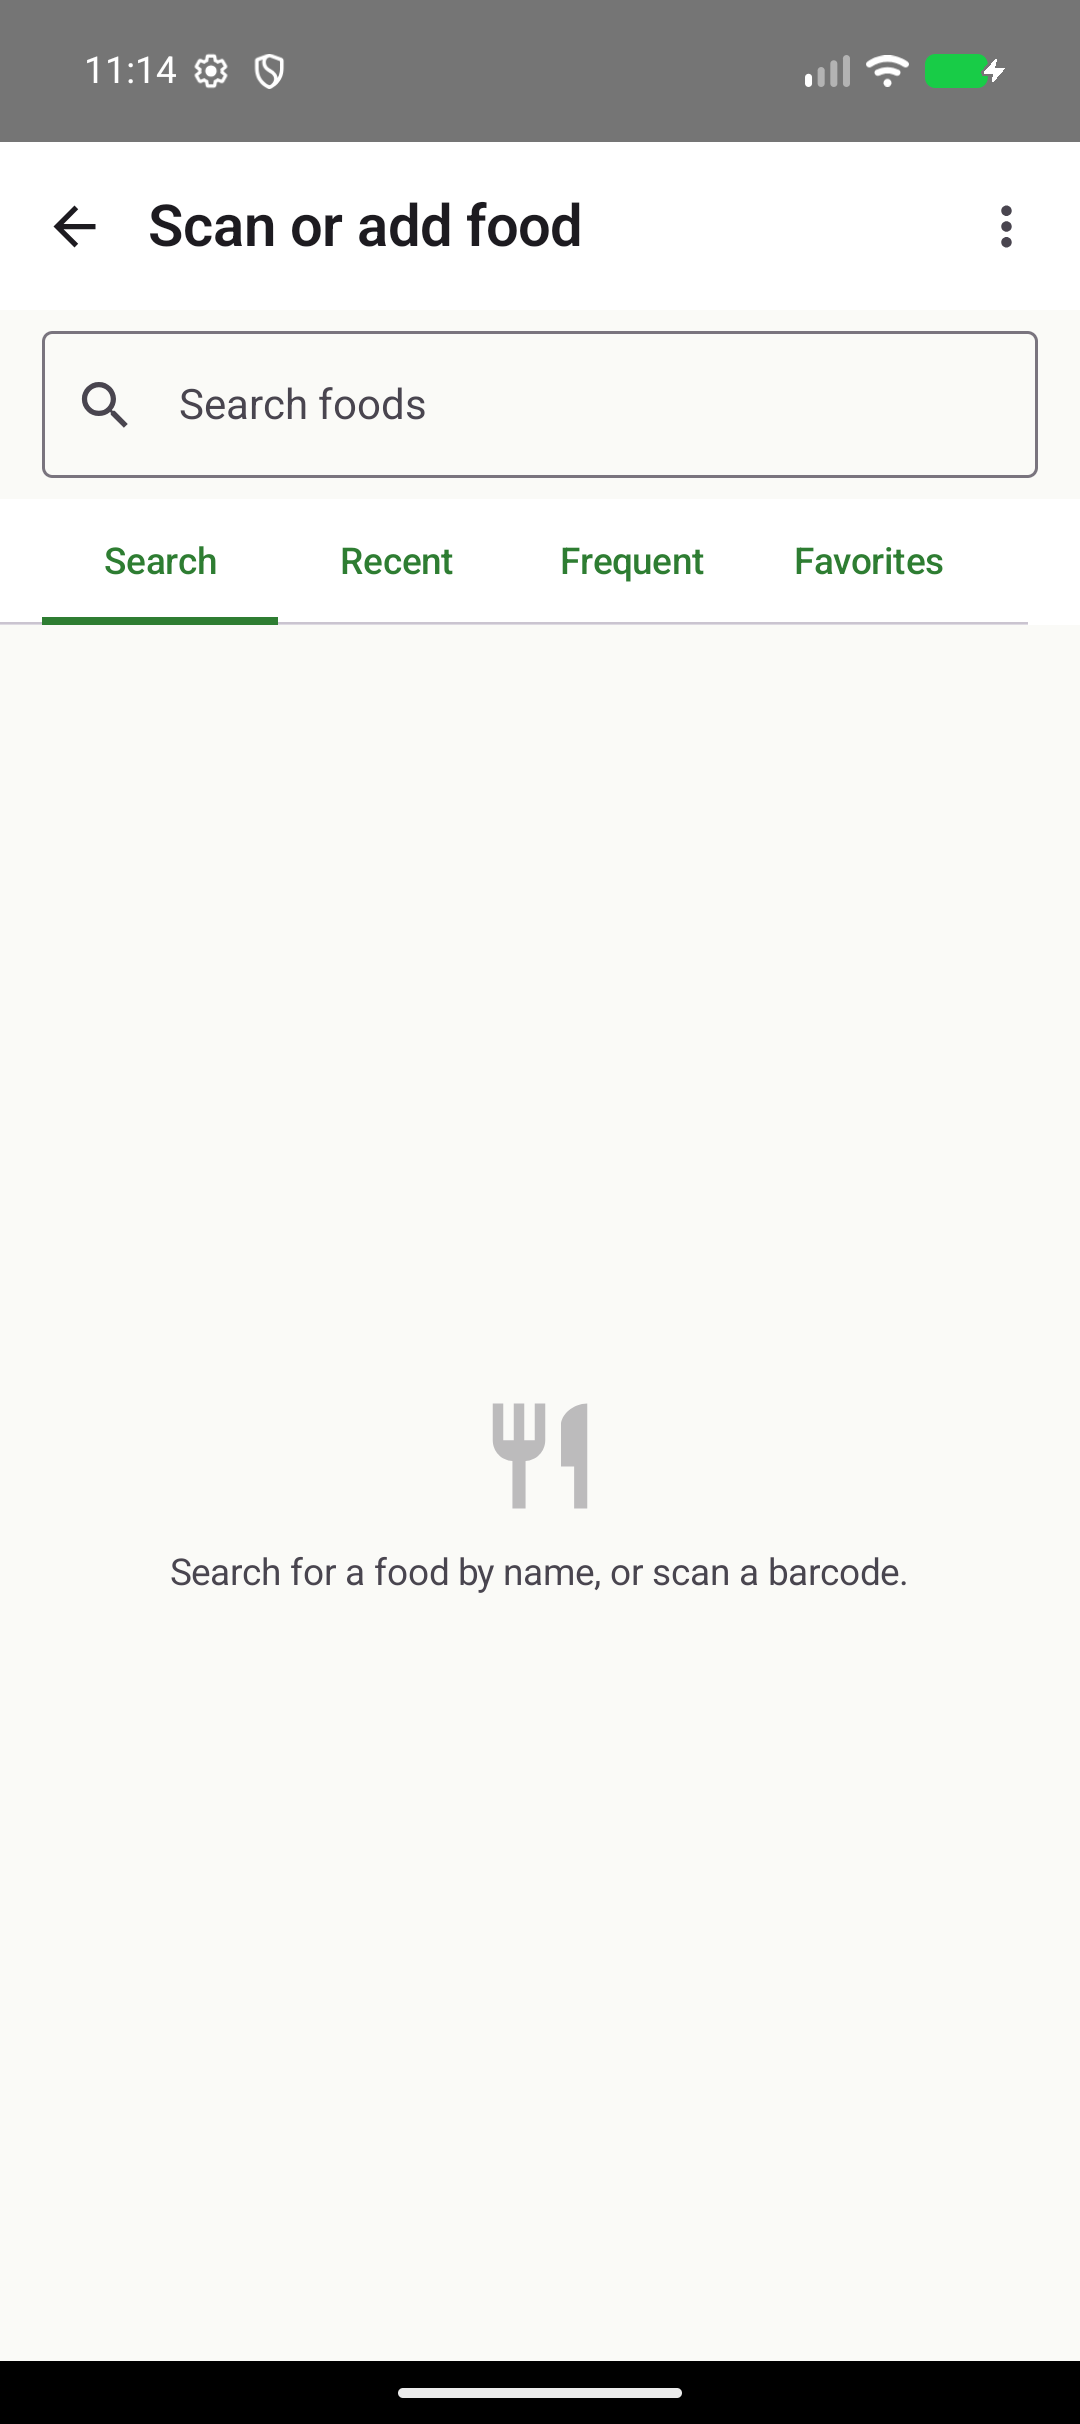
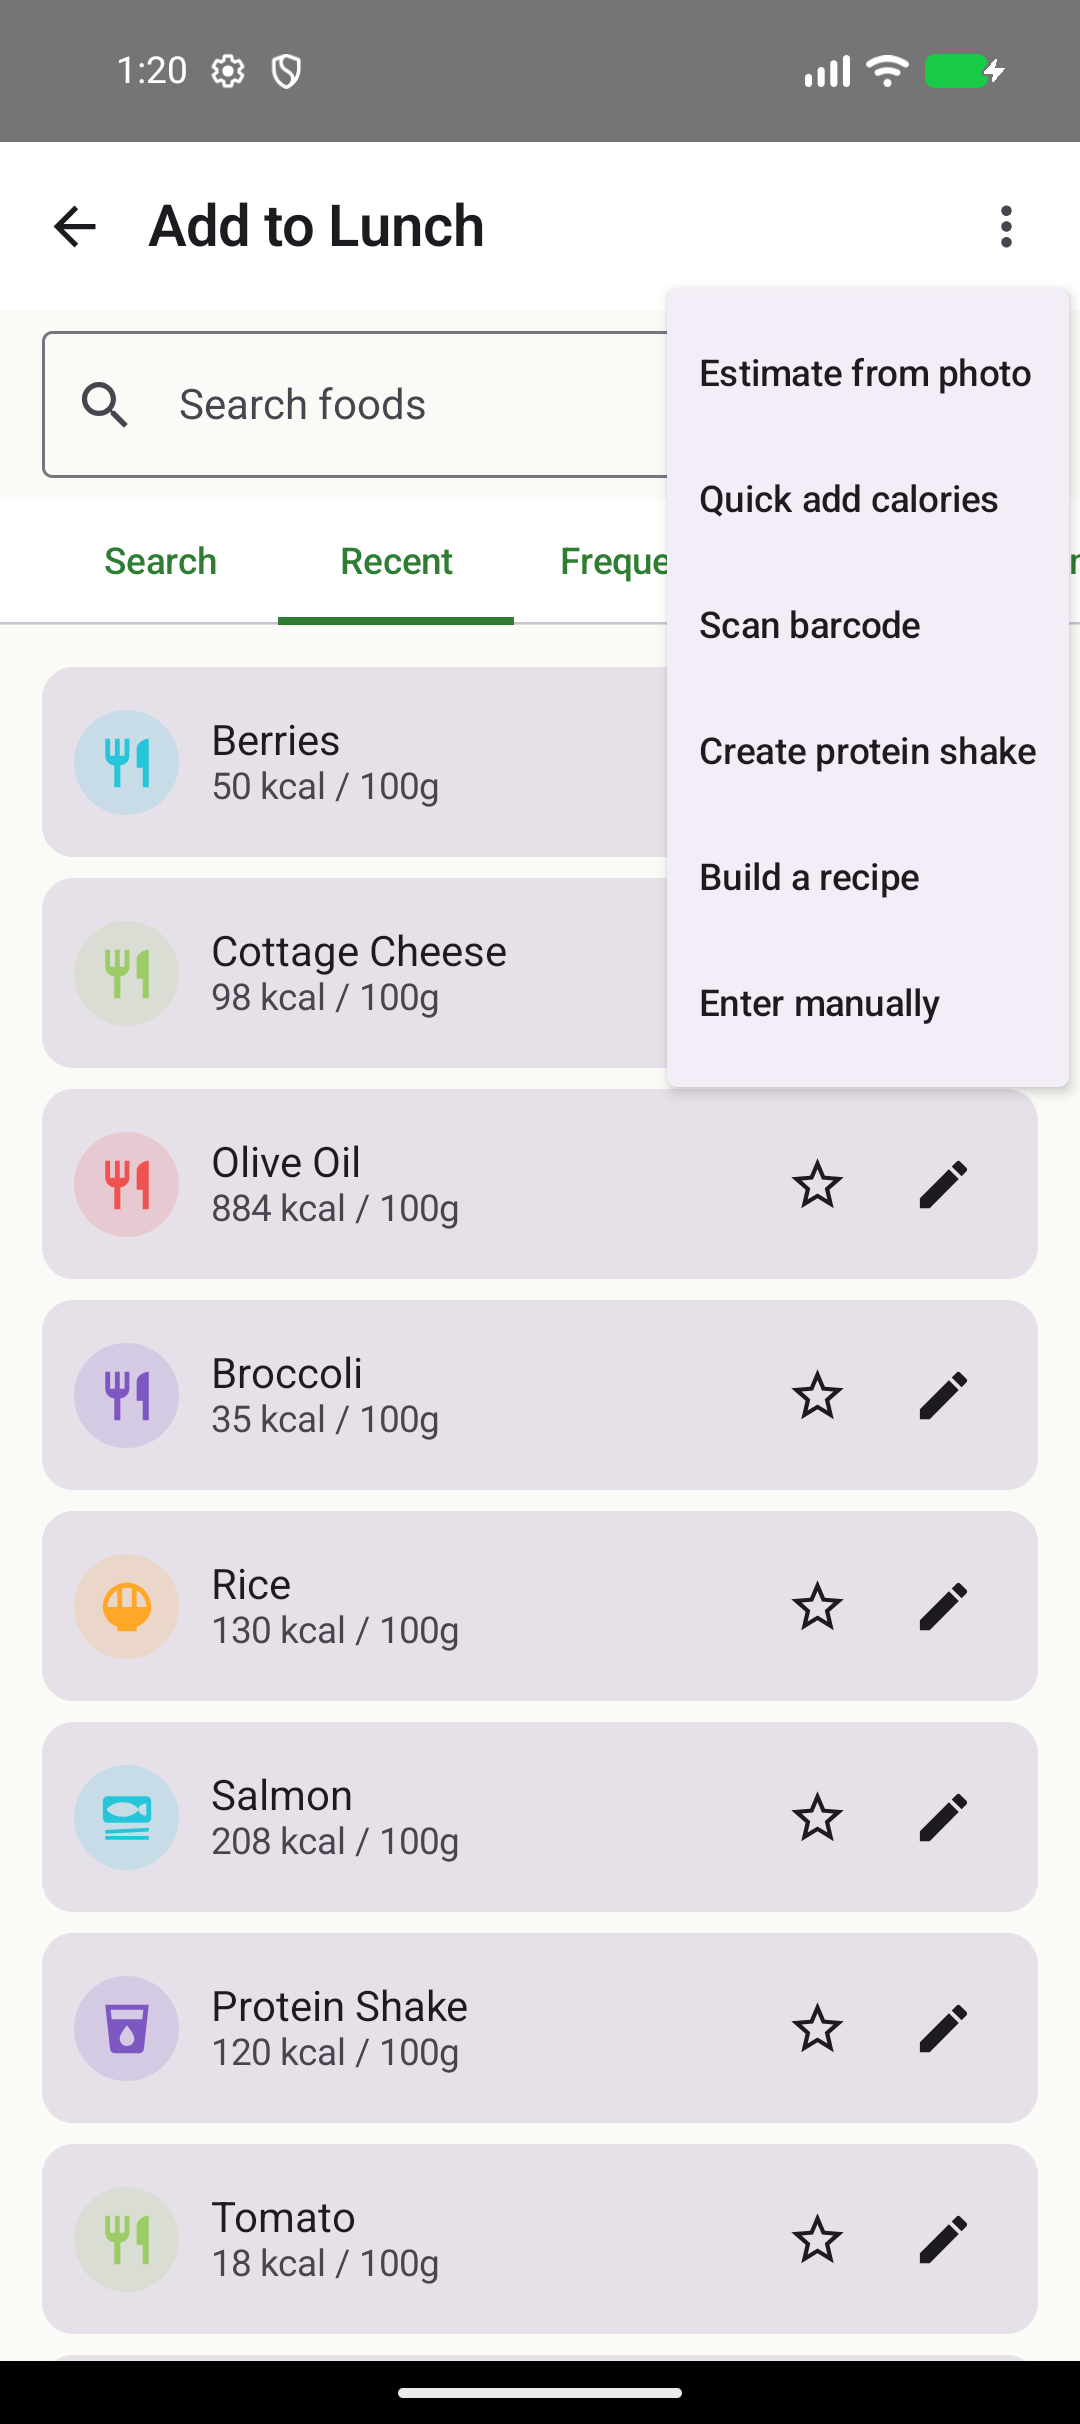
Expand README with populated screenshots

diff --git a/README.md b/README.md
@@ -1,96 +1,181 @@
 # Forklift
 
-An Android app for tracking calories/macros and lifting sessions together, with
-visual thresholds for protein/fat, muscle-coverage exercise suggestions, and a
-weight-vs-intake correlation view.
+Forklift is a local-first Android app that brings nutrition, hydration, activity,
+lifting, and body-weight trends into one place. It combines detailed daily logging
+with practical feedback: macro ranges instead of single-number targets,
+muscle-coverage suggestions, protein-spacing reminders, and an estimate of actual
+maintenance calories from weight and intake history.
 
 ## Features
 
-- **Barcode scanning** (CameraX + ML Kit) looked up against the free
-  [Open Food Facts](https://openfoodfacts.org) database — no API key required.
-- **Recent / frequent / favorite foods** remembered locally so repeat logging is
-  one tap, plus manual entry and text search (local + online).
-- **Grams or servings** quantity entry, per food item.
-- **Meals**: built-in and user-managed meal slots, with a shared consumed-at time for each meal/day.
-- **Protein spacing reminders**: configurable protein dose/gap and waking window, anchored to
-  actual meal times.
-- **Hydration tracking**: plain water plus estimated hydration from logged foods and drinks.
-- **Macro thresholds**: protein defaults to a 1.6-2.4 g/kg body-weight range; fat has
-  a configurable safe floor/ceiling; carbs fill
-  whatever calorie budget is left. The dashboard color-codes each macro
-  (red = below threshold, amber = approaching, green = on target, blue = over).
-- **Lifting tracker**: sessions → exercises → sets (weight × reps), with an
-  exercise library tagged down to the sub-muscle level (e.g. biceps long vs.
-  short head, all three triceps heads, upper/mid/lower chest). A weekly
-  coverage report flags undertrained sub-groups and suggests specific
-  exercises to fill the gap.
-- **Weight tracking** with a daily reminder notification (WorkManager) and a
-  trend view that estimates your *actual* maintenance calories from logged
-  weight + intake, comparing it to your calorie target and suggesting
-  adjustments.
+### Daily nutrition dashboard
 
-## Screenshots
+- Browse previous days or open the date picker to review and correct historical logs.
+- See calories consumed, remaining, or over target in a daily progress ring.
+- Track protein, fat, and carbohydrates against personalized minimum and maximum
+  ranges; tap any macro for a ranked per-food contribution breakdown.
+- Review fiber, sugar, saturated fat, sodium, potassium, calcium, iron, vitamins C,
+  D, and B12, magnesium, and zinc against adult reference values.
+- Open 7-, 14-, or 30-day views for calorie and macro averages, protein history,
+  water intake, and logging completeness.
 
-The screenshots below show the populated dashboard, shared meal-time workflow,
-food logging, and profile/reminder controls on a Pixel emulator.
+### Flexible food logging
 
-| Dashboard | Shared meal time | Food logging | Profile and reminders |
-| --- | --- | --- | --- |
-| ![Forklift dashboard](https://raw.githubusercontent.com/AA-2020743/Forklift/main/docs/images/dashboard.png?v=a221ffa) | ![Shared meal time control](https://raw.githubusercontent.com/AA-2020743/Forklift/main/docs/images/meal-time.png?v=a221ffa) | ![Food logging screen](https://raw.githubusercontent.com/AA-2020743/Forklift/main/docs/images/add-food.png?v=a221ffa) | ![Profile and reminder settings](https://raw.githubusercontent.com/AA-2020743/Forklift/main/docs/images/profile.png?v=a221ffa) |
+- Search the on-device food library or explicitly query the crowd-sourced
+  [Open Food Facts](https://openfoodfacts.org) catalog.
+- Scan UPC/EAN barcodes with CameraX and ML Kit; cached products are reused before
+  another network lookup.
+- Browse recent, frequent, and favorite foods for fast repeat logging.
+- Enter quantities in grams or servings with a live calorie and macro preview, then
+  edit the amount or remove the entry later.
+- Add foods manually with optional serving details, water percentage, and 12
+  micronutrient fields. Recognized whole foods can start with editable reference
+  estimates.
+- Quick-add known calories and optional macros for restaurant meals or rough entries.
+- Build reusable protein shakes from powder and liquid ingredients, or recipes from
+  multiple saved foods with live batch and per-100 g totals.
+- Optionally estimate a meal from a camera or gallery photo through Gemini, then
+  review, edit, remove, and batch-log the detected foods before saving.
+
+### Meals, templates, and timing
+
+- Start with Breakfast, Pre-workout, Lunch, Post-workout, Dinner, and Snack; add
+  custom meal slots, choose their typical times, archive them, or restore them.
+- Keep one shared consumed-at time for every food in a meal/day and correct it from
+  the meal screen when needed.
+- Copy the previous day's equivalent meal into an empty slot.
+- Save a logged meal as a named template and apply all of its foods and quantities
+  to another meal in one action.
+- Configure protein-spacing nudges using a qualifying dose, maximum gap, and
+  wake/sleep window. Meal times provide context for the reminder.
+
+### Hydration and activity
+
+- Calculate a hydration target from body weight and activity level.
+- Quick-log plain water in 250 ml, 500 ml, or 1 L increments and correct past days.
+- See plain water separately from estimated hydration contributed by logged food and
+  drinks.
+- Log walking, running, hiking, cycling, swimming, boxing, sports, yoga, HIIT, or a
+  custom activity with duration, optional steps, and estimated or manual calories.
+- Include completed lifting sessions in the day's activity summary with duration and
+  estimated energy use.
+
+### Lifting and workout analysis
+
+- Start a blank session or use a reusable workout template.
+- Search and filter a seeded library of 57 exercises across 11 muscle groups, with
+  fine-grained targets such as chest regions, deltoid heads, biceps/triceps heads,
+  calves, core, and back regions.
+- Record weight x reps sets, duplicate or delete sets, and compare against the most
+  recent sets for the same exercise.
+- Run 60-, 90-, or 120-second rest timers with add-time, skip, and vibration controls.
+- Browse completed sessions and per-exercise history, including a heaviest-weight
+  chart.
+- Get conservative 14-day coverage suggestions for undertrained sub-muscles, with
+  candidate exercises that can fill each gap.
+
+### Weight, measurements, and feedback
+
+- Log one weigh-in per day and edit or remove entries from the 28-day history.
+- Compare raw scale readings with an exponentially smoothed trend and typical daily
+  water-weight noise.
+- View calorie intake beside weekly weight change and estimate actual maintenance
+  calories from available food and weight logs.
+- Receive goal-aware guidance and optionally apply the suggested 200 kcal/day target
+  adjustment.
+- Record waist, chest, arms, thighs, hips, and neck measurements and keep the latest
+  summary alongside weight history.
+
+### Personal targets, reminders, and privacy
+
+- Configure weight, height, age, sex, activity level, and goals for loss,
+  maintenance, gain, or recomposition.
+- Preview targets instantly using Mifflin-St Jeor BMR, activity-adjusted TDEE,
+  goal-based calories, editable protein/fat ranges, and residual carbohydrates.
+- Override the calculated calorie target when following a separate plan.
+- Schedule a daily weight reminder that stays quiet after a weigh-in, plus
+  protein-spacing nudges that pause during the configured sleep window.
+- Store the optional Gemini key with Android Keystore-backed encrypted preferences.
+- Keep core profile, food, meal, hydration, workout, weight, and measurement data in
+  Room so normal tracking remains available offline. No Forklift account is needed.
+- Follow the device's light or dark theme automatically.
 
 ## Architecture
 
-Single-module Kotlin app, Jetpack Compose UI, no DI framework (a small
-hand-rolled `AppContainer`, see `di/`) — appropriate for a project this size.
+Forklift is a single-module Kotlin app with Jetpack Compose UI and a small,
+hand-written `AppContainer` instead of a DI framework.
 
-```
-data/local/      Room entities, DAOs, database
-data/remote/     Open Food Facts Retrofit API + DTOs
-data/repository/ Repositories mediating local DB + network
-data/seed/       Starter exercise library
-domain/          Pure Kotlin logic: nutrition targets, macro thresholds,
-                 muscle-coverage analysis, weight/calorie correlation
-scanner/         CameraX + ML Kit barcode scanning
-reminder/        WorkManager daily weight reminder + notifications
+```text
+data/local/      Room entities, DAOs, database, and migrations
+data/remote/     Open Food Facts and Gemini Retrofit APIs
+data/repository/ Repositories mediating local storage and network access
+data/seed/       Starter meal slots and exercise library
+domain/          Nutrition, hydration, coverage, and trend calculations
+scanner/         CameraX and ML Kit barcode scanning
+reminder/        WorkManager weight and protein notifications
 di/              Manual dependency container
-ui/              Compose screens + ViewModels, one package per feature area
+ui/              Compose screens and ViewModels grouped by feature
 ```
 
-Everything is local-first (Room + DataStore-free — settings live in a
-singleton Room row); network calls are barcode/name lookups against Open Food Facts
-and optional photo estimation through the user's Gemini API key.
+Network access is limited to Open Food Facts searches/barcode lookups and optional
+Gemini photo analysis. Online foods selected by the user are cached locally for
+later reuse. Room migrations preserve supported on-device data across upgrades.
 
 ## Building
 
-Requires Android Studio (or a `gradlew` invocation) with normal internet
-access to Google's Maven (`dl.google.com`) and Maven Central, JDK 17, and an
-Android SDK with API 34 installed.
+Requirements:
 
-```
+- JDK 17.
+- Android Studio or the Gradle wrapper.
+- Android SDK 34.
+- Internet access to Google's Maven and Maven Central for dependency resolution.
+
+```bash
 ./gradlew assembleDebug
 ```
 
-The current workspace is verified with `compileDebugKotlin`, `lintDebug`, and
-the JVM unit-test task. Run `assembleDebug` before distributing a release APK.
+Key versions are pinned in `gradle/libs.versions.toml`:
 
-### Key versions pinned in `gradle/libs.versions.toml`
-
-- Kotlin 2.0.20, AGP 8.4.2, Compose BOM 2024.09.02
-- Room 2.6.1, Navigation Compose 2.7.7, WorkManager 2.9.0
-- CameraX 1.3.4, ML Kit barcode-scanning 17.3.0
-- Retrofit 2.11.0 + kotlinx.serialization
+- Kotlin 2.0.20, Android Gradle Plugin 8.4.2, Compose BOM 2024.09.02.
+- Room 2.6.1, Navigation Compose 2.7.7, WorkManager 2.9.0.
+- CameraX 1.3.4, ML Kit barcode scanning 17.3.0.
+- Retrofit 2.11.0 and kotlinx.serialization.
 
 ## Permissions
 
-- `CAMERA` — requested contextually when you open the barcode scanner.
-- `POST_NOTIFICATIONS` (Android 13+) — requested contextually, for weight and
-  protein reminders.
+- `CAMERA`: requested when scanning a barcode or taking a meal photo.
+- `POST_NOTIFICATIONS` on Android 13+: requested for weight and protein reminders.
+- `VIBRATE`: used for rest-timer feedback and notifications; no runtime prompt.
 
-## Notes / possible follow-ups
+## Notes and limitations
 
-- Meal slots include the built-in meals and can be added, archived, and restored.
-- The weight-vs-calorie correlation is a simple linear trend over a rolling
-  28-day window; it's meant as a directional sanity check, not a precise
-  metabolic model.
-- No cloud sync/backup beyond Android's local `allowBackup` — everything
-  lives in the on-device Room database.
+- Nutrition ranges, hydration values, activity calories, and micronutrient references
+  are estimates for guidance, not medical advice.
+- Open Food Facts is crowd-sourced, so product coverage and accuracy vary by region.
+- Gemini photo analysis requires internet and a user-supplied API key; selected images
+  are sent to Google and the returned nutrition values should be reviewed.
+- The maintenance-calorie model is a directional 28-day estimate and depends on
+  consistent food and weight logging.
+- Exercise calories are displayed but do not increase the daily calorie budget.
+- The app currently uses metric units and has no app-managed cloud sync or export.
+  Android-managed backup/restore may include the local database.
+
+## Screenshots
+
+These Pixel emulator captures use deterministic demo data rather than real user data.
+
+| Daily dashboard | Micronutrient detail |
+| --- | --- |
+| ![Forklift calorie and macro dashboard](https://raw.githubusercontent.com/AA-2020743/Forklift/main/docs/images/dashboard.png?v=20260818-demo) | ![Forklift micronutrient progress](https://raw.githubusercontent.com/AA-2020743/Forklift/main/docs/images/micronutrients.png?v=20260818-demo) |
+
+| Meal overview | Shared meal time and entries |
+| --- | --- |
+| ![Forklift hydration and meal overview](https://raw.githubusercontent.com/AA-2020743/Forklift/main/docs/images/meals.png?v=20260818-demo) | ![Forklift shared meal time and food entries](https://raw.githubusercontent.com/AA-2020743/Forklift/main/docs/images/meal-log.png?v=20260818-demo) |
+
+| Food logging options | Lifting coverage and history |
+| --- | --- |
+| ![Forklift recent foods and logging options](https://raw.githubusercontent.com/AA-2020743/Forklift/main/docs/images/add-food.png?v=20260818-demo) | ![Forklift muscle coverage suggestions](https://raw.githubusercontent.com/AA-2020743/Forklift/main/docs/images/lifting.png?v=20260818-demo) |
+
+| Weight and maintenance insight | Profile and reminders |
+| --- | --- |
+| ![Forklift weight trend and maintenance estimate](https://raw.githubusercontent.com/AA-2020743/Forklift/main/docs/images/weight.png?v=20260818-demo) | ![Forklift profile reminders and AI settings](https://raw.githubusercontent.com/AA-2020743/Forklift/main/docs/images/profile.png?v=20260818-demo) |
